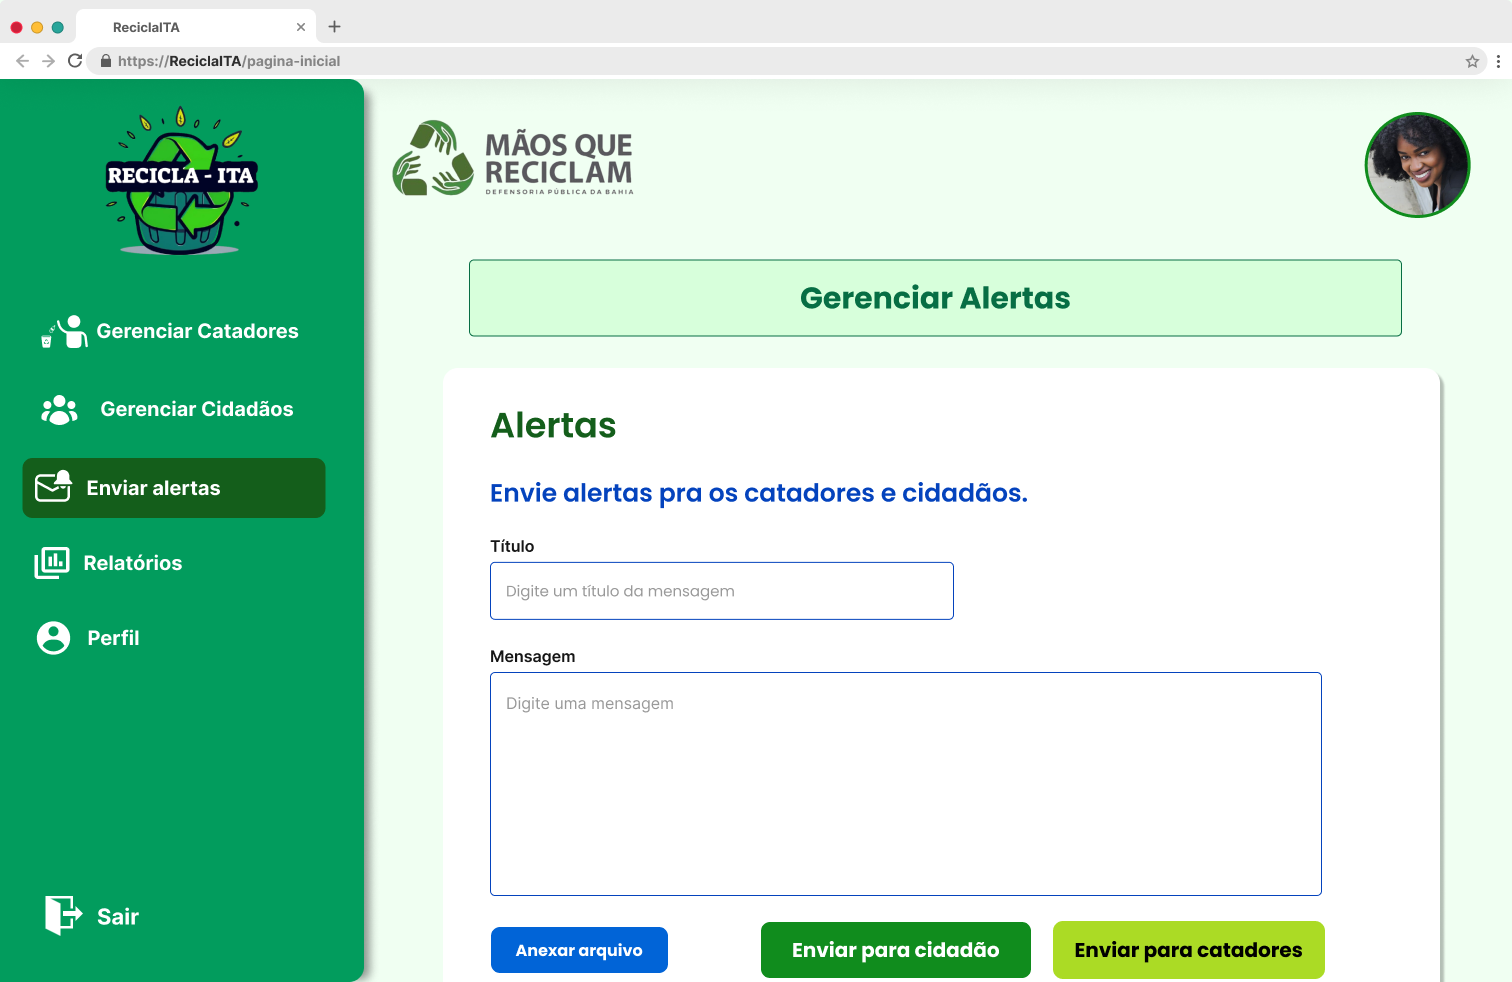
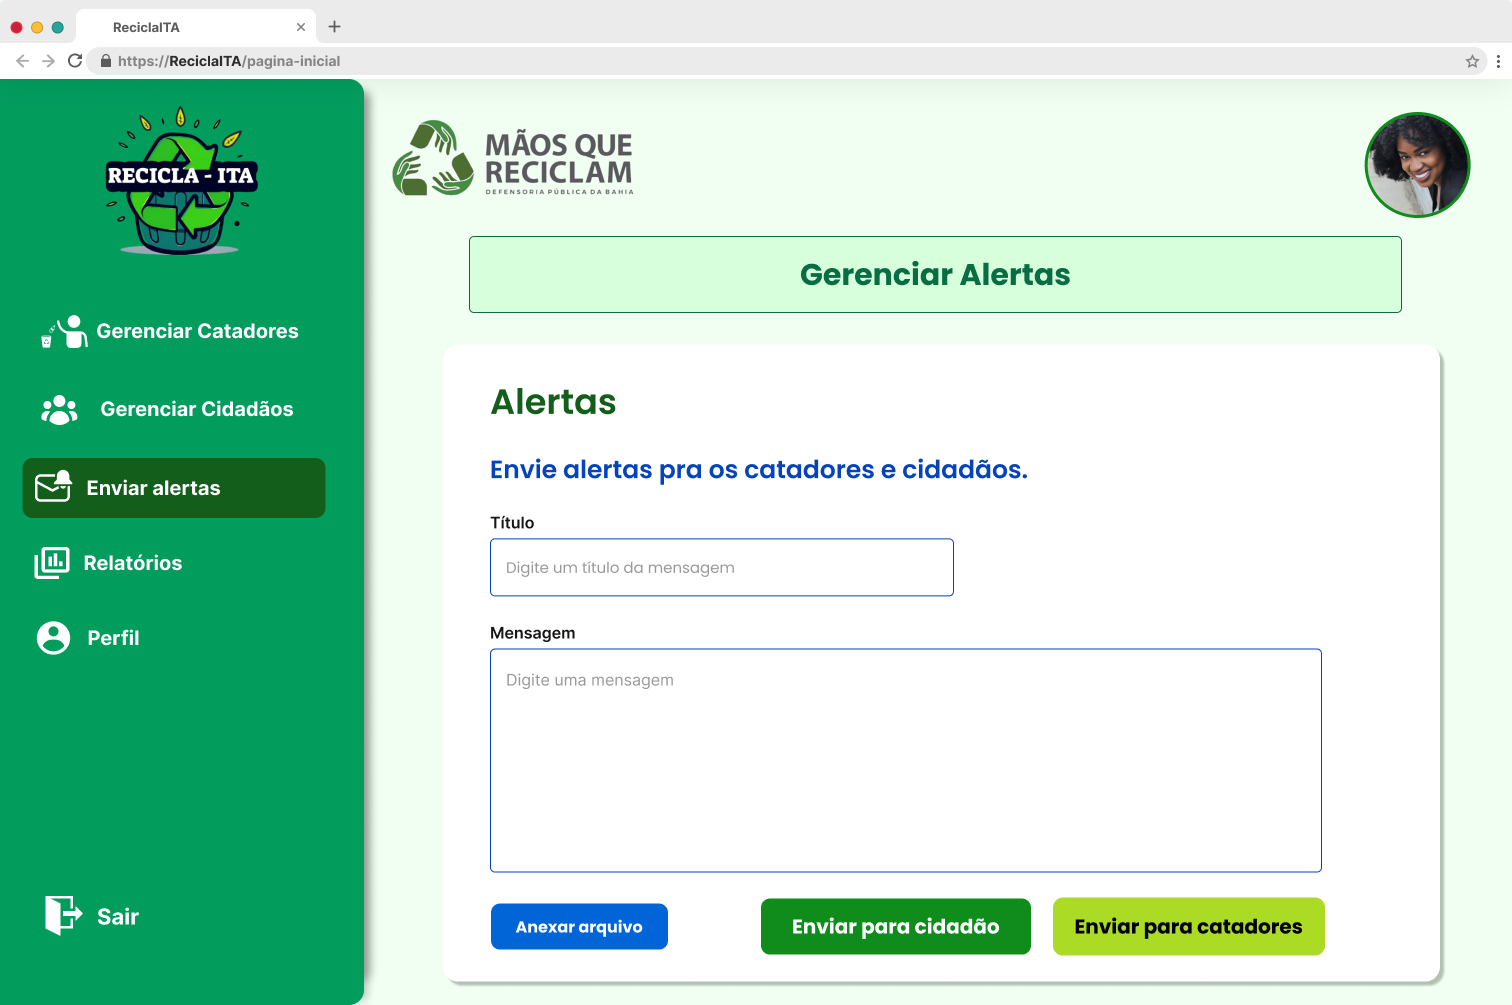
feat: Adiciona sessao de more project

diff --git a/projetos/recicla-ita/index.html b/projetos/recicla-ita/index.html
@@ -41,15 +41,12 @@
             
             <section class="about">
                 <h2>Sobre</h2>
-
                 <div class="about-content">
                     <div class="about-text">
-                        <p>O <span>Recicla-ITA</span> é uma solução digital desenvolvida por estudantes da graduação em SI do IF Baiano Campus Itapetinga-BA, em parceria com a 2º Regional da Defensoria Pública da Bahia, <span>programa Mãos que Reciclam</span> e o <span>líder das cooperativas de catadores de Itapetinga-BA</span>. O objetivo é otimizar a logística de materiais recicláveis, conectando <span>cidadãos e catadores</span> para promover uma economia circular eficiente e sustentável.</p>
-                        <p>A proposta consiste em um <span>aplicativo móvel</span> para os cidadãos e catadores: enquanto os cidadãos realizam o agendamento de coletas, os catadores gerenciam as retiradas nos locais indicados. Complementando o projeto, o sistema conta com um <span>dashboard administrativo</span> para que a Defensoria Pública possa gerenciar o fluxo e acompanhar métricas ambientais.</p>
-                        <p>Entrei no Recicla-ITA em fase estratégica de evolução, onde o projeto já havia passado por uma rodada inicial de validação com Defensoria e com o líder das cooperativas. Atuei como Product Designer e Desenvolvedor Front-end, sendo responsável pela evolução do protótipo, focando na usabilidade e acessibilidade da interface. Por outro lado, trabalhei na construção do front-end do dashboard administrativo, garantindo uma interface funcional, responsiva e orientada a dados.</p>
-                        <p><span>Status:</span> O projeto encontra-se em fase avançada de desenvolvimento, com foco na futura implementação e validação em Itapetinga-BA.</p>
+                        <p>O <span>Recicla-ITA</span> é uma solução digital desenvolvida por estudantes de Sistemas de Informação do IF Baiano, em parceria com a 2º Regional da Defensoria Pública da Bahia, o <span>programa Mãos que Reciclam</span> e <span>cooperativas locais</span>. O projeto visa é otimizar a logística de materiais recicláveis em Itapetinga-BA, conectando <span>cidadãos e catadores</span> através de um aplicativo móvel/desktop para agendamento de coletas, complementando por um dashboard administrativo para o monitoramento de métricas ambientais pela Defensoria.</p>
+                        <p>Minha atuação como Product Desginer e Desenvolvedor Front-end ocorreu na fase de evolução estratégica, partindo das validaçãoes iniciais realizadas com os parceiros. Fui resoponsável pelo refinamento do protótipo para garantir a acessibilidde e usabilidade da interface, além do desenvolvimento técnico do front-end do dashboard administrativo, assegurando uma ferramenta funcional, responsiva e orientada a dados.</p>
+                        <p><span>Status:</span> Atualmente, o projeto encontra-se em fase avançada de desenvolvimento. O foco na futura implementação e validação em Itapetinga-BA.</p>
                     </div>
-
                     <div class="about-image">
                         <img src="/images/recicla/logoRecicla.png" alt="">
                     </div>
@@ -117,7 +114,7 @@
                             <img src="../../images/recicla/media/iniciar coleta.png" alt="Tela de iniciar coleta">
                         </div>
 
-                        <h4>Protótipo de alta fidelidade</h4>
+                        <h4>Protótipos de alta fidelidade</h4>
                         <h5>Aplicativo dos catadores</h5>
                             <div class="galeria-grid">
                                 <img src="../../images/recicla/alta/Login.png" alt="Tela de inicio">
@@ -146,11 +143,45 @@
                         </div>
                     </div>
                 </section>
-            <section class="cta-projeto">
-                <h2>Gostou deste projeto?</h2>
-                <p>Vamos conversar sobre como posso ajudar no seu próximo projeto!</p>
-                <a href="../../index.html#contact" class="btn">Entre em contato</a>
-            </section>
+
+                <section class="explore-more">
+                    <div class="container">
+                        <h2 class="explore-title">Mais para explorar</h2>
+                        <div class="explore-grid">
+                            <a href="../labsif/index.html" class="explore-card">
+                                <div class="explore-card-image">
+                                    <img src="../../images/capaLanding.png" alt="LabsIF - Landing Page">
+                                    <div class="explore-card-overlay">
+                                        <i class='bx bx-link-external'></i>
+                                    </div>
+                                </div>
+                                <div class="explore-card-content">
+                                    <h3>LabsIF</h3>
+                                    <p>Landing Page da software house LabsIF. Atuação completa em UI/UX e desenvolvimento front-end.</p>
+                                </div>
+                            </a>
+                            
+                            <a href="../eateating/index.html" class="explore-card">
+                                <div class="explore-card-image">
+                                    <img src="../../images/capaEat.png" alt="EatEating - Sistema de Refeições">
+                                    <div class="explore-card-overlay">
+                                        <i class='bx bx-link-external'></i>
+                                    </div>
+                                </div>
+                                <div class="explore-card-content">
+                                    <h3>EatEating</h3>
+                                    <p>Sistema para controle de acesso e logística alimentar no IF Baiano Campus Itapetinga.</p>
+                                </div>
+                            </a>
+                        </div>
+                    </div>
+                </section>
+
+                <section class="cta-projeto">
+                    <h2>Gostou deste projeto?</h2>
+                    <p>Vamos conversar sobre como posso ajudar no seu próximo projeto!</p>
+                    <a href="../../index.html#contact" class="btn">Entre em contato</a>
+                </section>
         </div>
     </main>
 

diff --git a/projetos/recicla-ita/style.css b/projetos/recicla-ita/style.css
@@ -262,7 +262,7 @@ h2 {
 }
 
 .coluna li {
-    padding: 5px 0;
+    padding: 10px 0;
     position: relative;
     padding-left: 20px;
     color: #f2f0f0;
@@ -350,7 +350,7 @@ h2 {
 .image-processos h4 {
     margin-bottom: 15px;
     color: #12d426;
-    font-size: 20px;
+    font-size: 25px;
     padding-top: 40px;
     text-align: center;
 }
@@ -359,7 +359,7 @@ h2 {
     margin-bottom: 15px;
     color: #eef2ee;
     font-size: 20px;
-    padding-top: 10px;
+    padding-top: 50px;
     text-align: left;
 }
 
@@ -368,12 +368,218 @@ h2 {
     margin-bottom: 20px;
 }
 
+.explore-more {
+    padding: 40px 0 60px;
+    margin: 40px 0;
+}
+
+.explore-title {
+    font-size: 36px;
+    text-align: center;
+    color: violet;
+    margin-bottom: 25px;
+    position: relative;
+}
+
+.explore-grid {
+    display: grid;
+    grid-template-columns: repeat(auto-fit, minmax(550px, 1fr));
+    gap: 30px;
+    max-width: 1200px;
+    margin: 0 auto;
+}
+
+.explore-card {
+    background: rgba(255, 255, 255, 0.05);
+    border-radius: 15px;
+    overflow: hidden;
+    text-decoration: none;
+    color: white;
+    transition: all 0.3s ease;
+    border: 1px solid rgba(255, 255, 255, 0.1);
+    display: block;
+    height: 100%;
+}
+
+.explore-card:hover {
+    transform: translateY(-10px);
+    box-shadow: 0 15px 35px rgba(0, 0, 0, 0.3);
+}
+
+.explore-card-image {
+    position: relative;
+    height: 400px;
+    overflow: hidden;
+}
+
+.explore-card-image img {
+    width: 100%;
+    height: 100%;
+    object-fit: cover;
+    transition: transform 0.5s ease;
+}
+
+.explore-card:hover .explore-card-image img {
+    transform: scale(1.05);
+}
+
+.explore-card-overlay {
+    position: absolute;
+    top: 0;
+    left: 0;
+    width: 100%;
+    height: 100%;
+    background: rgba(0, 0, 0, 0.5);
+    display: flex;
+    align-items: center;
+    justify-content: center;
+    opacity: 0;
+    transition: opacity 0.3s ease;
+}
+
+.explore-card:hover .explore-card-overlay {
+    opacity: 1;
+}
+
+.explore-card-overlay i {
+    font-size: 40px;
+    color: rgb(255, 0, 255);
+    background: rgb(245, 199, 245);
+    width: 70px;
+    height: 70px;
+    border-radius: 50%;
+    display: flex;
+    align-items: center;
+    justify-content: center;
+}
+
+.explore-card-content {
+    padding: 25px;
+}
+
+.explore-card-content h3 {
+    font-size: 22px;
+    margin-bottom: 10px;
+    color: violet;
+    transition: color 0.3s ease;
+}
+
+.explore-card:hover .explore-card-content h3 {
+    color: rgb(239, 20, 239);
+}
+
+.explore-card-content p {
+    color: #ccc;
+    font-size: 15px;
+    line-height: 1.5;
+    margin-bottom: 15px;
+    display: -webkit-box;
+    -webkit-line-clamp: 3;
+    -webkit-box-orient: vertical;
+    overflow: hidden;
+}
+
+@media (max-width: 1024px) {
+    .explore-grid {
+        grid-template-columns: repeat(2, 1fr);
+        gap: 25px;
+    }
+}
+
+@media (max-width: 768px) {
+    .explore-more {
+        padding: 60px 0 40px;
+        margin: 40px 0;
+    }
+    
+    .explore-title {
+        font-size: 28px;
+    }
+    
+    .explore-subtitle {
+        font-size: 16px;
+        margin-bottom: 40px;
+    }
+    
+    .explore-grid {
+        grid-template-columns: 1fr;
+        gap: 20px;
+    }
+    
+    .explore-card-image {
+        height: 180px;
+    }
+    
+    .explore-card-content {
+        padding: 20px;
+    }
+    
+    .explore-card-content h3 {
+        font-size: 20px;
+    }
+}
+
+@media (max-width: 480px) {
+    .explore-title {
+        font-size: 24px;
+    }
+    
+    .explore-card-image {
+        height: 160px;
+    }
+    
+    .explore-card-content h3 {
+        font-size: 18px;
+    }
+    
+    .explore-card-content p {
+        font-size: 14px;
+    }
+    
+    .explore-all-content h3 {
+        font-size: 18px;
+    }
+    
+    .explore-all-content i {
+        font-size: 40px;
+    }
+}
+
+.explore-card {
+    animation: fadeInUp 0.6s ease-out forwards;
+    opacity: 0;
+}
+
+.explore-card:nth-child(1) {
+    animation-delay: 0.1s;
+}
+
+.explore-card:nth-child(2) {
+    animation-delay: 0.2s;
+}
+
+@keyframes fadeInUp {
+    from {
+        opacity: 0;
+        transform: translateY(30px);
+    }
+    to {
+        opacity: 1;
+        transform: translateY(0);
+    }
+}
+
 .cta-projeto {
     text-align: center;
     background: rgba(255, 255, 255, 0.05);
-    padding: 50px;
+    padding: 40px;;
     border-radius: 20px;
-    margin: 60px 0;
+    margin-top: 40px;
+}
+
+.cta-projeto h2 {
+    margin-bottom: 15px;
+    color: violet;
 }
 
 .cta-projeto .btn {
